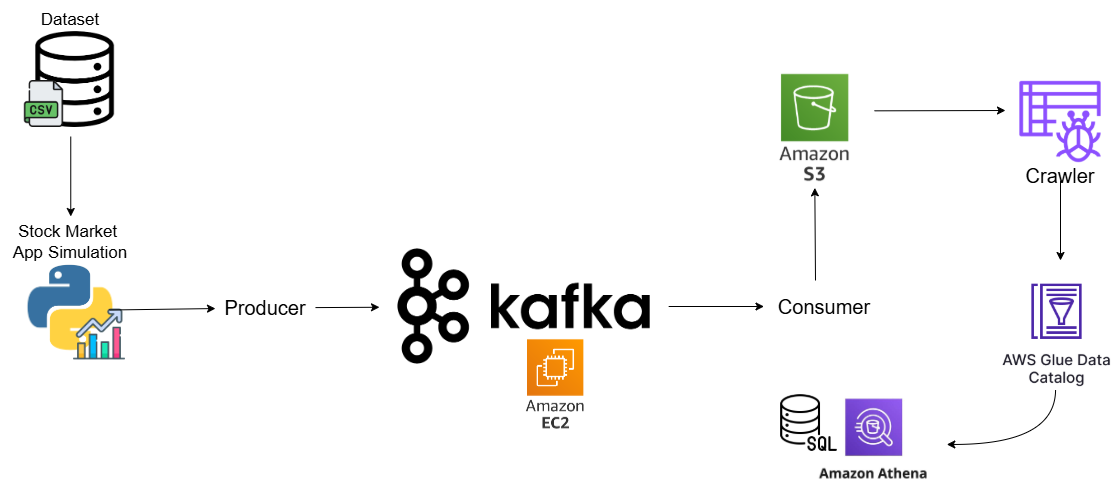
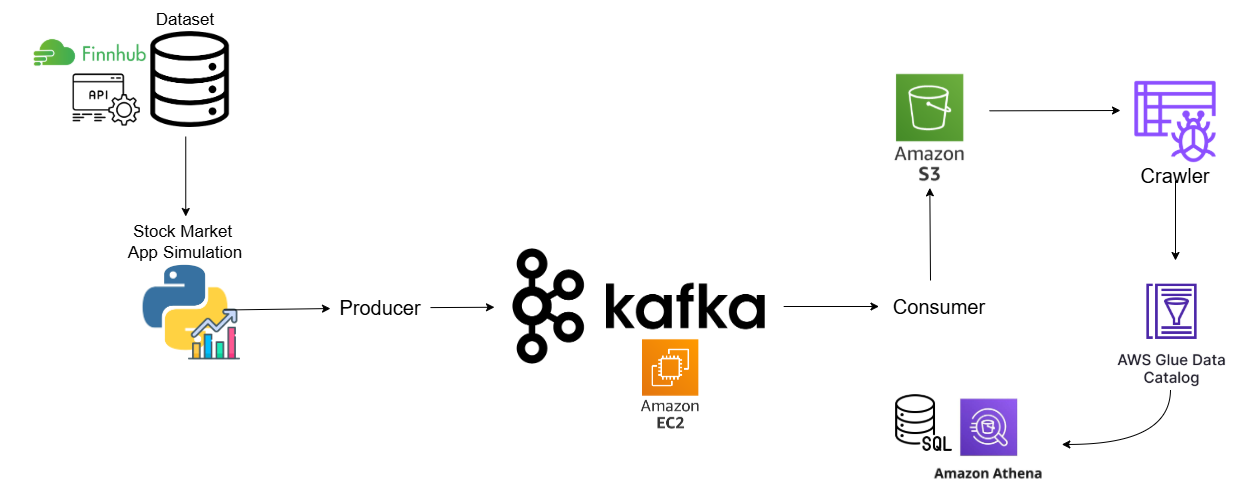
scripts update

diff --git a/src/kafka_producer.py b/src/kafka_producer.py
@@ -1,0 +1,81 @@
+import websocket
+import json
+from kafka import KafkaProducer
+import sys
+
+FINNHUB_API_KEY = "ur_finnhub_api"
+KAFKA_BROKER = "ec2_public_ip:9093"
+TOPIC_NAME = "stock_market_topic"
+
+SYMBOLS = ["AAPL", "AMZN", "TSLA"] 
+
+try:
+    producer = KafkaProducer(
+        bootstrap_servers=[KAFKA_BROKER],
+        value_serializer=lambda v: json.dumps(v).encode('utf-8'),
+        api_version=(3, 8, 0)
+    )
+    print(f"Connected to Kafka at {KAFKA_BROKER}")
+except Exception as e:
+    print(f"Kafka connection error: {e}")
+    sys.exit(1)
+
+message_count = 0
+
+def on_message(ws, message):
+    global message_count
+    try:
+        data = json.loads(message)
+        
+        if data.get('type') == 'trade':
+            for trade in data['data']:
+                payload = {
+                    "symbol": trade['s'],
+                    "price": trade['p'],
+                    "volume": trade['v'],
+                    "timestamp": trade['t'],
+                    "source": "finnhub_live"
+                }
+                
+                producer.send(TOPIC_NAME, value=payload)
+                message_count += 1
+                
+                print(f"Kafka [{message_count}] → {payload['symbol']}: ${payload['price']:.2f} | Vol: {payload['volume']}")
+                
+    except Exception as e:
+        print(f"Message processing error: {e}")
+
+def on_open(ws):
+    print("Connected to Finnhub LIVE WebSocket")
+    print(f"Monitoring: {', '.join(SYMBOLS)}")
+    
+    for sym in SYMBOLS:
+        ws.send(json.dumps({"type": "subscribe", "symbol": sym}))
+
+def on_error(ws, error):
+    print(f"WebSocket error: {error}")
+
+def on_close(ws, close_status_code, close_msg):
+    print("Finnhub disconnected")
+
+def run_producer():
+    websocket.enableTrace(False)
+    ws_url = f"wss://ws.finnhub.io?token={FINNHUB_API_KEY}"
+    
+    ws = websocket.WebSocketApp(
+        ws_url,
+        on_message=on_message,
+        on_error=on_error,
+        on_close=on_close,
+        on_open=on_open
+    )
+    
+    try:
+        ws.run_forever(ping_interval=20, ping_timeout=10)
+    except KeyboardInterrupt:
+        print("\nManual stop (Ctrl+C)...")
+        producer.flush()
+        producer.close()
+
+if __name__ == "__main__":
+    run_producer()

diff --git a/src/kafka_consumer_s3.py b/src/kafka_consumer_s3.py
@@ -1,0 +1,71 @@
+from kafka import KafkaConsumer
+import boto3
+import json
+from datetime import datetime
+import sys
+
+KAFKA_BROKER = "ec2_public_ip:9093"
+S3_BUCKET = "unic_name_for_ur_s3_bucket"
+TOPIC_NAME = "stock_market_topic"
+BATCH_SIZE = 50
+
+try:
+    consumer = KafkaConsumer(
+        TOPIC_NAME,
+        bootstrap_servers=[KAFKA_BROKER],
+        value_deserializer=lambda m: json.loads(m.decode('utf-8')),
+        api_version=(3, 8, 0),
+        auto_offset_reset='latest'
+    )
+    print(f"Connected to Kafka! Listening to topic: {TOPIC_NAME}")
+except Exception as e:
+    print(f"Kafka Consumer connection error: {e}")
+    sys.exit(1)
+
+try:
+    s3 = boto3.client('s3')
+    print(f"Connected to AWS S3 (Bucket: {S3_BUCKET})")
+except Exception as e:
+    print(f"S3 configuration error (check AWS credentials via 'aws configure'): {e}")
+    sys.exit(1)
+
+def upload_to_s3(batch, count):
+    ts = datetime.now().strftime('%Y%m%d_%H%M%S')
+    filename = f"stock_live_{ts}_{count}.json"
+    
+    jsonl_data = ""
+    for record in batch:
+        jsonl_data += json.dumps(record) + "\n"
+    
+    try:
+        s3.put_object(
+            Bucket=S3_BUCKET,
+            Key=f"kafka-stock-data/{filename}",
+            Body=jsonl_data,
+            ContentType='application/json'
+        )
+        print(f"SAVED: {len(batch)} records were uploaded to S3 as {filename}")
+    except Exception as e:
+        print(f"Error saving to S3: {e}")
+
+if __name__ == "__main__":
+    print(f"\nConsumer is running. Waiting for data from Finnhub -> Kafka...\n")
+    batch = []
+    total_batches = 0
+    
+    try:
+        for msg in consumer:
+            batch.append(msg.value)
+            print(f"Received from Kafka: {msg.value.get('symbol', 'UNKNOWN')} - ${msg.value.get('price', 0)}")
+            
+            if len(batch) >= BATCH_SIZE:
+                total_batches += 1
+                upload_to_s3(batch, total_batches)
+                batch = []
+                
+    except KeyboardInterrupt:
+        if batch: 
+            total_batches += 1
+            print("\nSaving final batch before stopping...")
+            upload_to_s3(batch, total_batches)
+        print("\nConsumer stopped.")
